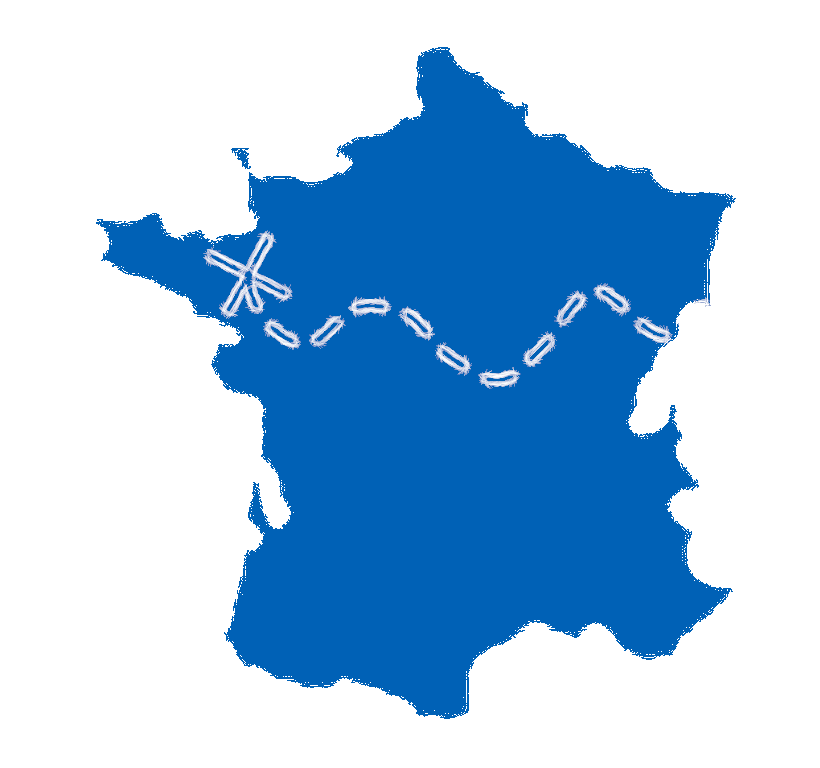
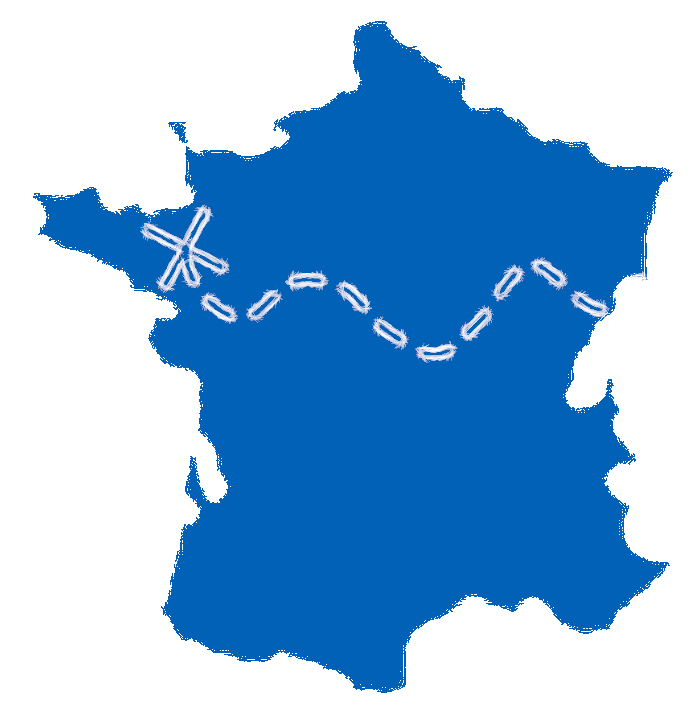
Added images to Hobbies, fixed map picture cropping

Changed region(s): [[0.0609, 0.0309, 0.9739, 0.9874]]

diff --git a/index.html b/index.html
@@ -428,24 +428,54 @@
             </div>
             <div class="row">
                 <div><img id="heartimg" src="img/heart.png" alt=""></div>
-
-                <table style="width:35vw" align="right">
-                        <tr>
-                            <th>Photography</th>
-                            <td>Have a look at my <a href="https://500px.com/3ng7n33r">500px</a></td>
-                        </tr>
-                        <tr>
-                            <th>Travelling</th>
-                            <td>Check out my 2019 trip from Russia to Vietnam <a href="https://www.polarsteps.com/MaximilianBlacher/1970215-eurasia-2019">here</a></td>
-                        </tr>
-                        <tr>
+                <div class="column">
+                    <table style="width:35vw" align="right">
+                        <tr class="hover" onmouseover="makevis('precode')" onmouseout="makeinvis('precode')">
                             <th>Coding</th>
                             <td>See my
                                 <a href="https://github.com/3ng7n33r">GitHub</a>,
                                 <a href="https://www.codingame.com/profile/fc7f2e3f002f6167dbd4899c4cf537d75694561">CodinGame</a> and
                                 <a href="https://www.kaggle.com/maximilianblacher">kaggle</a> profile</td>
                         </tr>
-                </table>
+                            <tr class="hover" onmouseover="makevis('pre500')" onmouseout="makeinvis('pre500')">
+                                <th>Photography</th>
+                                <td>Have a look at my <a href="https://500px.com/3ng7n33r">500px</a></td>
+                            </tr>
+                            <tr class="hover" onmouseover="makevis('prepolar')" onmouseout="makeinvis('prepolar')">
+                                <th>Travelling</th>
+                                <td>Check out my 2019 trip from Russia to Vietnam <a href="https://www.polarsteps.com/MaximilianBlacher/1970215-eurasia-2019">here</a></td>
+                            </tr>
+
+                    </table>
+                    <table id="pre500" style="width:35vw" align="right">
+                      <thead>
+                        <tr>
+                          <th><img style="width:30vw" src="img/500px.png" alt=""></th>
+                        </tr>
+                      </thead>
+                    </table>
+                    <table id="prepolar" style="width:35vw" align="right">
+                      <thead>
+                        <tr>
+                          <th><img style="width:30vw" src="img/Polar.png" alt=""></th>
+                        </tr>
+                      </thead>
+                    </table>
+                    <table id="precode" style="width:35vw" align="right">
+                          <tr>
+                            <th>Github</th>
+                            <th><img style="width:15vw" src="img/Github.png" alt=""></th>
+                          </tr>
+                          <tr>
+                            <th>CodinGame</th>
+                            <th><img style="width:15vw" src="img/Cig.png" alt=""></th>
+                          </tr>
+                          <tr>
+                            <th>Kaggle</th>
+                            <th><img style="width:15vw" src="img/Kaggle.png" alt=""></th>
+                          </tr>
+                    </table>
+                  </div>
             </div>
         </div>
 

diff --git a/css/app.css b/css/app.css
@@ -68,7 +68,7 @@
 }
 
 #mapimg {
-    width: 35vw;
+    width: 30vw;
 }
 
 #heartimg {
@@ -103,7 +103,10 @@
 #FORDtable,
 #TSStable,
 #APCtable,
-#DELTAtable {
+#DELTAtable,
+#pre500,
+#prepolar,
+#precode {
     display: none;
 }
 
